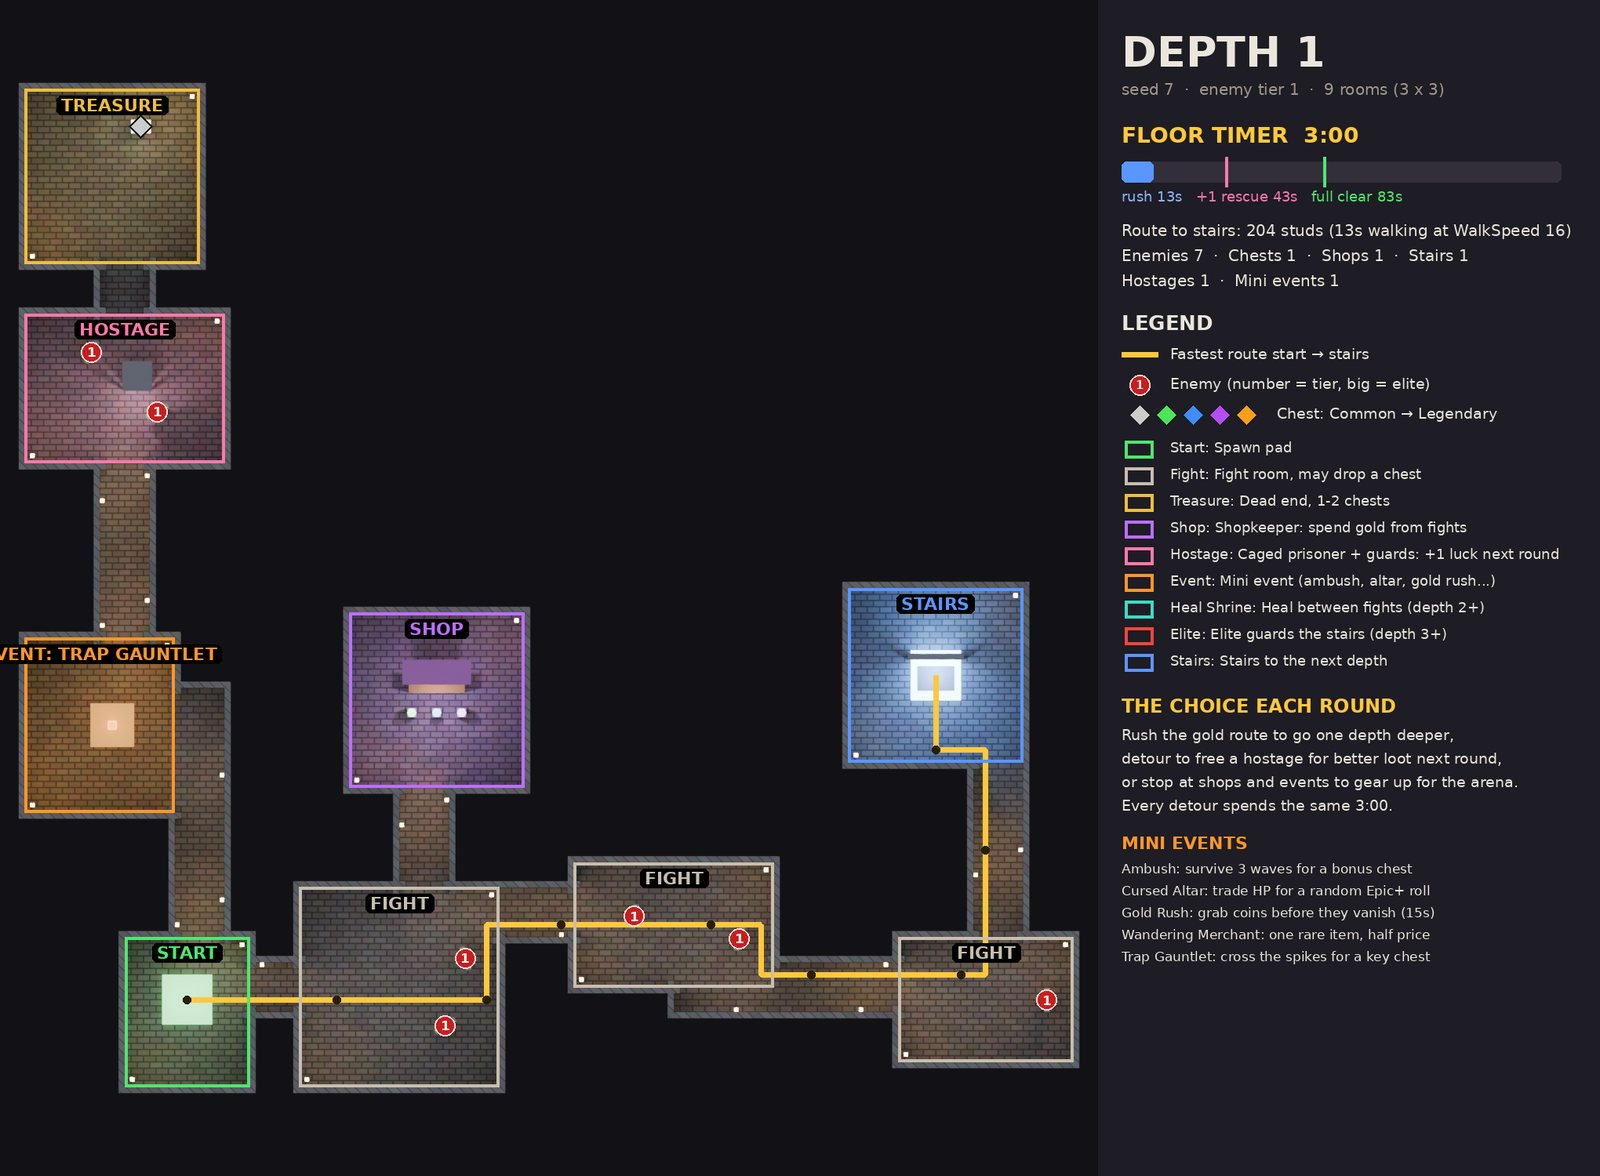
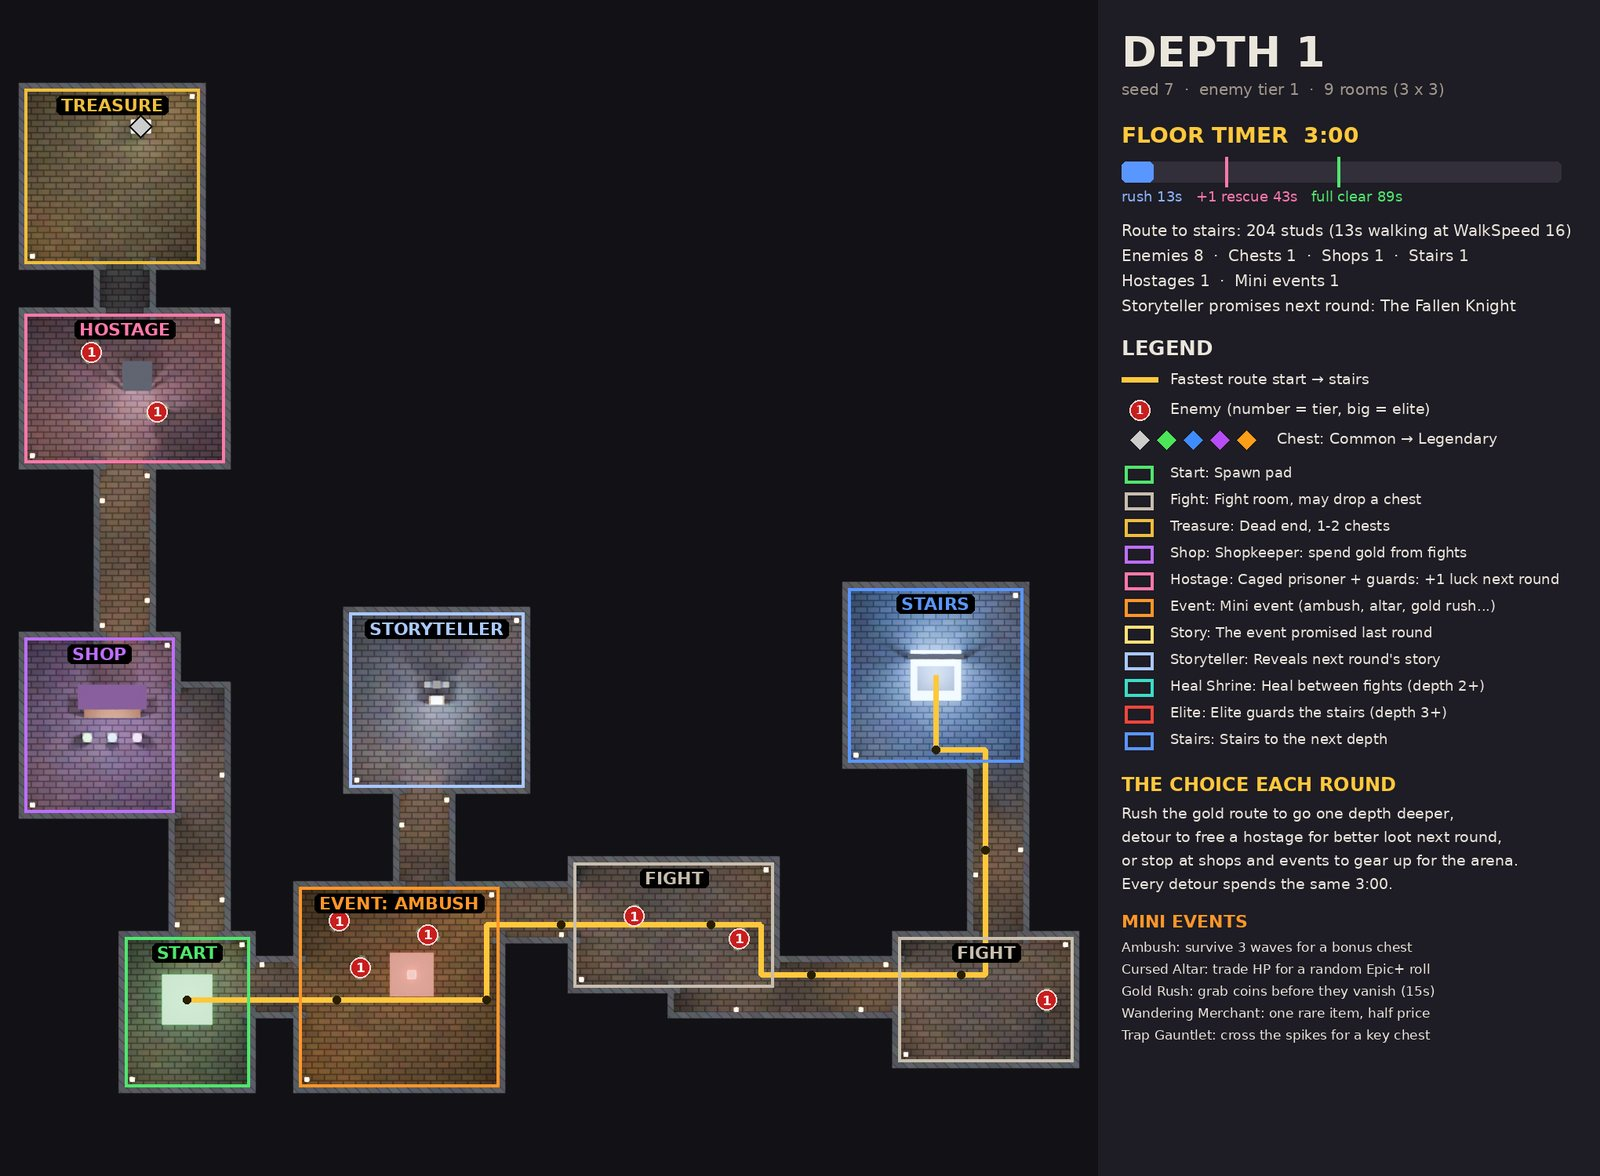
Add draft stories (storyteller, five story rooms) and refresh prototype renders
Claude-Session: https://claude.ai/code/session_01BBz4VfGTsvBuNKXe58LieA

diff --git a/docs/dungeon.md b/docs/dungeon.md
@@ -37,6 +37,8 @@ Every floor is generated from a seed by a small, engine-free generator (`dungeon
 | Shopkeeper | About 1 per 15 rooms |
 | Mini event | About 1 per 10 rooms |
 | Hostage | About 1 per 12 rooms, caged and guarded off the fast route |
+| Storyteller | Near the route on floors 1 to 5 <span class="tag draft">Draft</span> |
+| Story room | One per floor, off the fast route, from floor 2 <span class="tag draft">Draft</span> |
 
 ![New room types](assets/img/dungeon/room_types.jpg)
 
@@ -59,7 +61,26 @@ Every floor is generated from a seed by a small, engine-free generator (`dungeon
 !!! success "Cob, 2026-10-01"
     A **story** is a promise that a certain special event will happen in one room **of the next round**. It is not a storyline and not an extra floor.
 
-How a story is earned, how the promise is shown to players, and which events can be stories are still to be designed.
+#### How stories play out <span class="tag draft">Draft</span>
+
+<div class="grid" markdown>
+
+![Storyteller near the route](assets/img/dungeon/storyteller.jpg){ width="49%" }
+![Story room](assets/img/dungeon/story_room.jpg){ width="49%" }
+
+</div>
+
+- Floors 1 to 5 each have a **storyteller** near the route who announces the next round's story.
+- On the next floor, the story plays out in **one special room off the fast route**.
+- Which story comes up is picked from the match seed and round, so everyone in the match gets the same one.
+
+| Story | What happens |
+|-|-|
+| The Fallen Knight | A 1v1 duel for an Epic blade |
+| The Collapsing Vault | 20 s to loot a vault before it caves in |
+| The Prisoner Prince | A VIP hostage worth +3 loot luck |
+| The Lost Caravan | A caravan that sells Legendary gear |
+| The Dragon's Egg | Defend the egg until it hatches into a pet |
 
 ## Pacing <span class="tag draft">Draft</span>
 

diff --git a/docs/open-questions.md b/docs/open-questions.md
@@ -5,7 +5,7 @@ Everything waiting on Cob, grouped by system. Each page also lists its own quest
 ## Game loop
 - **Does the boss replace the PvP finale,** or do players still fight each other too? ([Boss](boss.md))
 - **Depth rule:** reaching the stairs in time takes you one depth deeper and timing out keeps you at the same depth with your loot. Assumed, not confirmed. ([Dungeon](dungeon.md))
-- **Stories:** how a story is earned, how the promised next-round event is shown, and which events can be stories. ([Dungeon](dungeon.md#stories))
+- **Stories:** the draft has a storyteller on floors 1 to 5 announcing one of five stories (Fallen Knight, Collapsing Vault, Prisoner Prince, Lost Caravan, Dragon's Egg) that plays out in a room on the next floor. Waiting on a yes. ([Dungeon](dungeon.md#stories))
 
 ## Lobby
 - Any other Robux conveniences, like vault space or loadout presets? ([Lobby](lobby.md))
